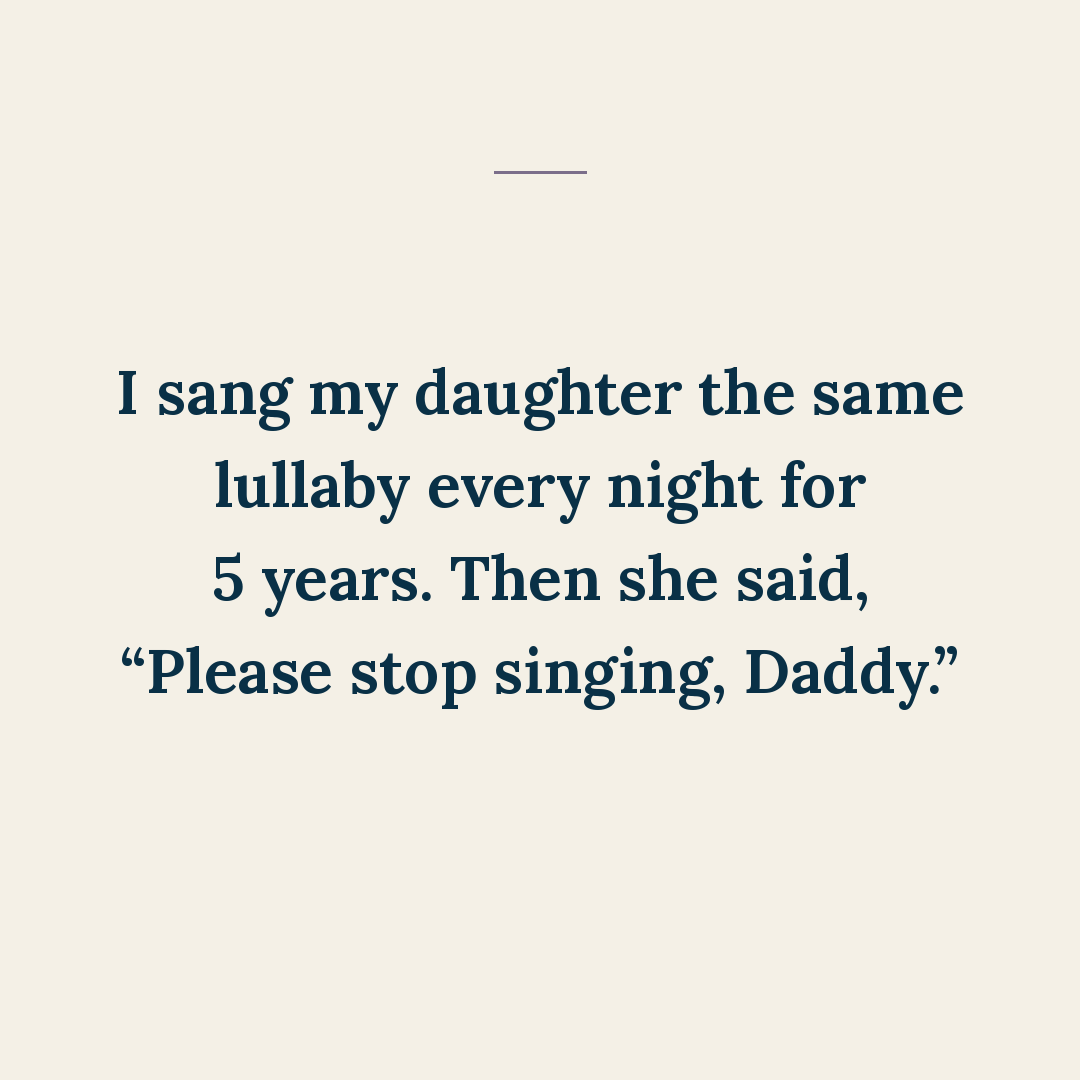
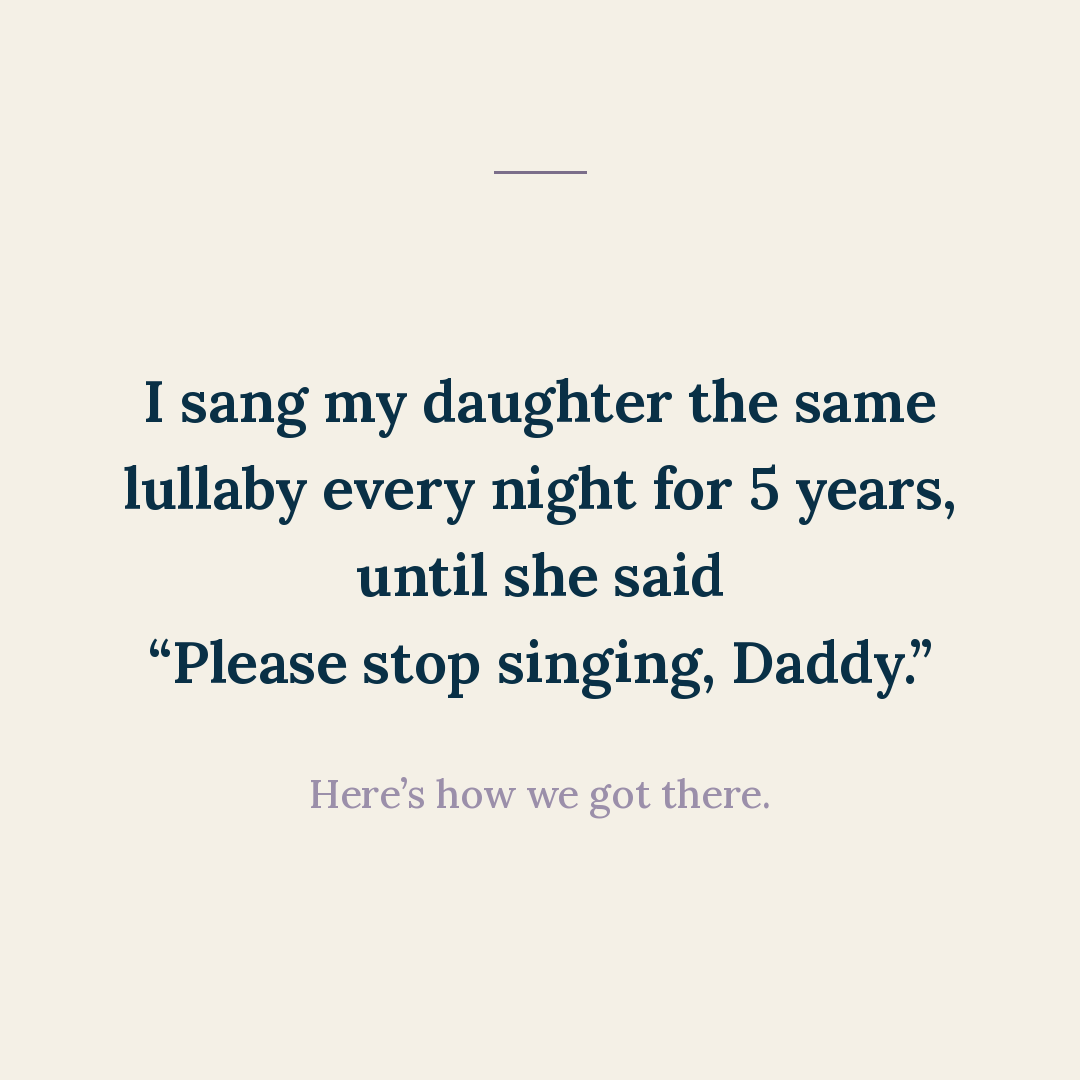
Add story-01-please-stop-singing-daddy (STORY 01 - Please Stop Singing Daddy)

Changed region(s): [[0.0917, 0.3361, 0.8861, 0.6722], [0.275, 0.7028, 0.7028, 0.7639]]

diff --git a/posts/story-01-please-stop-singing-daddy/slides.md b/posts/story-01-please-stop-singing-daddy/slides.md
@@ -9,7 +9,8 @@ one shared size across all story cards). The NEWBORN beat is split across slides
 Rules: no "sleep training" · "Dad" only · daughter's name/audio private · never imply Drift songs are sung in the parent's voice.
 
 ## Cover
-I sang my daughter the same lullaby every night for 5 years. Then she said, "Please stop singing, Daddy."
+I sang my daughter the same lullaby every night for 5 years, until she said "Please stop singing, Daddy."
+Sub-eyebrow: Here's how we got there.
 
 ## Body
 2 BEFORE SHE WAS BORN — I wrote her a lullaby before she was born. / Her name is in it.
